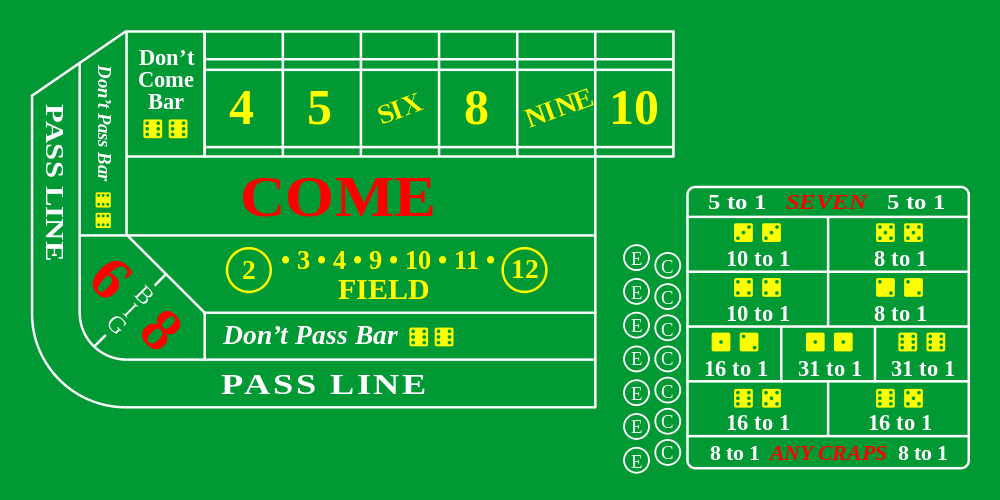
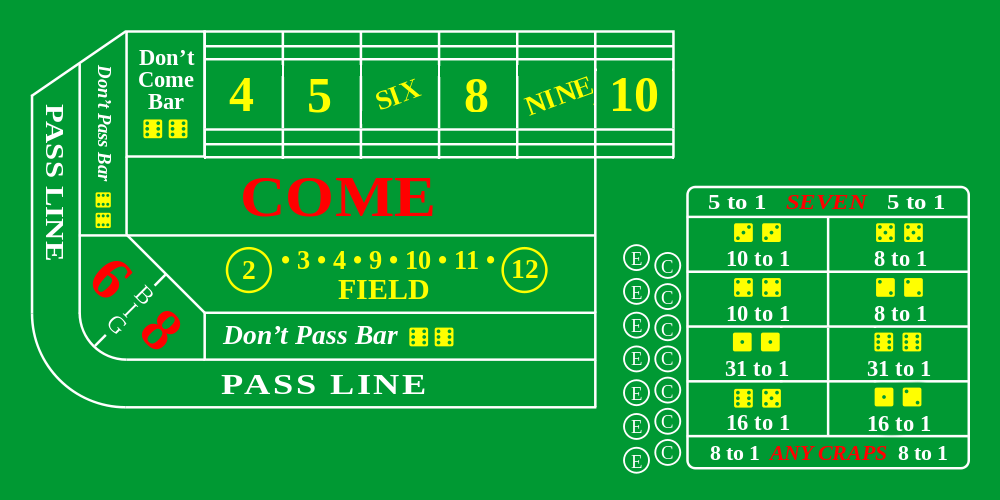
modified craps table, added bet placements

Changed region(s): [[0.186, 0.09, 0.682, 0.33], [0.682, 0.66, 0.961, 0.87]]

diff --git a/data/states/craps.py b/data/states/craps.py
@@ -45,13 +45,50 @@ class Craps(tools._State):
         
         all_rolls = list(range(2,13))
         self.bets = {
+        
             #name: Bet(highlighter_size, highlighter_topleft, display_name, payoff)
-            
-            'come'      :Bet((652,120),(178,252), 'Come',           {'1/1':all_rolls}),
-            'field'     :Bet((542,117),(288,373), 'Field',          {'1/1':[3,4,9,10,11], '2/1':[2,12]}),
-            'dont_pass' :Bet((542,65),(288,493), 'Dont\'t Pass',    {'1/1':all_rolls}),
-            'pass'      :Bet((662,65),(170,570), 'Pass',            {'1/1':all_rolls}),
-            'dont_come' :Bet((100,190),(180,53), 'Dont\'t Come',    {'1/1':all_rolls}),
+
+            'come'          :Bet((652,120),(178,252), 'Come',           {'1/1':all_rolls}),
+            'field'         :Bet((542,117),(288,373), 'Field',          {'1/1':[3,4,9,10,11], '2/1':[2,12]}),
+            'dont_pass'     :Bet((542,65),(288,493), 'Dont\'t Pass',    {'1/1':all_rolls}),
+            'pass'          :Bet((662,65),(170,570), 'Pass',            {'1/1':all_rolls}),
+            'dont_come'     :Bet((100,190),(180,53), 'Dont\'t Come',    {'1/1':all_rolls}),
+            'any_seven'     :Bet((388,45),(964,295), 'Any Seven',       {'5/1':all_rolls}),
+            'hard_6'        :Bet((194,80),(964,342), 'Hard 6',          {'10/1':all_rolls}),
+            'hard_10'       :Bet((194,80),(1161,342), 'Hard 10',        {'8/1':all_rolls}),
+            'hard_4'        :Bet((194,80),(1161,431), 'Hard 4',         {'8/1':all_rolls}),
+            'hard_8'        :Bet((194,80),(965,431), 'Hard 8',          {'10/1':all_rolls}),
+            'size_five'     :Bet((194,80),(965,603), 'Siz Five',        {'16/1':all_rolls}),
+            'ace_deuce'     :Bet((194,80),(1161,603), 'Ace Deuce',      {'16/1':all_rolls}),
+            'aces'          :Bet((194,80),(965,517), 'Aces',            {'31/1':all_rolls}),
+            'two_sixes'     :Bet((194,80),(1161,517), 'Two Sixes',      {'31/1':all_rolls}),
+            'any_craps'     :Bet((388,45),(964,689), 'Any Seven',       {'8/1':all_rolls}),
+            'big 6'         :Bet((67,125),(113,371), 'Big 6',           {'1/1':all_rolls}),
+            'big 8'         :Bet((105,67),(179,497), 'Big 8',           {'1/1':all_rolls}),
+            'place_lose_4'  :Bet((106,15),(288,53), 'Place Lose 4',     {'5/11':all_rolls}),
+            'lay_4'         :Bet((106,15),(288,75), 'Lay 4',            {'1/1':all_rolls}),
+            'buy_4'         :Bet((106,15),(288,206), 'Buy 4',           {'1/1':all_rolls}),
+            'place_win_4'   :Bet((106,15),(288,229), 'Place Win 4',     {'9/5':all_rolls}),
+            'place_lose_5'  :Bet((106,15),(396,53), 'Place Lose 5',     {'4/6':all_rolls}),
+            'lay_5'         :Bet((106,15),(396,75), 'Lay 5',            {'1/1':all_rolls}),
+            'buy_5'         :Bet((106,15),(396,206), 'Buy 5',           {'1/1':all_rolls}),
+            'place_win_5'   :Bet((106,15),(396,229), 'Place Win 5',     {'7/6':all_rolls}),
+            'place_lose_6'  :Bet((106,15),(506,53), 'Place Lose 6',     {'4/6':all_rolls}),
+            'lay_6'         :Bet((106,15),(506,75), 'Lay 6',            {'1/1':all_rolls}),
+            'buy_6'         :Bet((106,15),(506,206), 'Buy 6',           {'1/1':all_rolls}),
+            'place_win_6'   :Bet((106,15),(506,229), 'Place Win 6',     {'7/6':all_rolls}),
+            'place_lose_8'  :Bet((106,15),(615,53), 'Place Lose 8',     {'4/6':all_rolls}),
+            'lay_8'         :Bet((106,15),(615,75), 'Lay 8',            {'1/1':all_rolls}),
+            'buy_8'         :Bet((106,15),(615,206), 'Buy 8',           {'1/1':all_rolls}),
+            'place_win_8'   :Bet((106,15),(615,229), 'Place Win 8',     {'7/6':all_rolls}),
+            'place_lose_9'  :Bet((106,15),(725,53), 'Place Lose 9',     {'5/8':all_rolls}),
+            'lay_9'         :Bet((106,15),(725,75), 'Lay 9',            {'1/1':all_rolls}),
+            'buy_9'         :Bet((106,15),(725,206), 'Buy 9',           {'1/1':all_rolls}),
+            'place_win_9'   :Bet((106,15),(725,229), 'Place Win 9',     {'7/5':all_rolls}),
+            'place_lose_10' :Bet((106,15),(834,53), 'Place Lose 10',    {'5/11':all_rolls}),
+            'lay_10'        :Bet((106,15),(834,75), 'Lay 10',           {'1/1':all_rolls}),
+            'buy_10'        :Bet((106,15),(834,206), 'Buy 10',          {'1/1':all_rolls}),
+            'place_win_10'  :Bet((106,15),(834,229), 'Place Win 10',    {'9/5':all_rolls}),
         }
         
     def set_table(self):
@@ -65,15 +102,6 @@ class Craps(tools._State):
         self.persist = persistent
         #This is the object that represents the user.
         self.casino_player = self.persist["casino_player"]
-        if not 'Craps' in self.casino_player.stats:
-            self.casino_player.stats['Craps'] = OrderedDict([
-                ('times as shooter',0),
-                ('bets placed',0), 
-                ('bets won',0), 
-                ('bets lost',0), 
-                ('total bets',0), 
-                ('total winnings',0)
-            ])
 
     def get_event(self, event, scale=(1,1)):
         """This method will be called for each event in the event queue
@@ -133,6 +161,6 @@ class Craps(tools._State):
         self.draw(surface)
         for h in self.bets.keys():
             self.bets[h].update(mouse_pos)
-        #print(mouse_pos)
+        print(mouse_pos)
 
 
